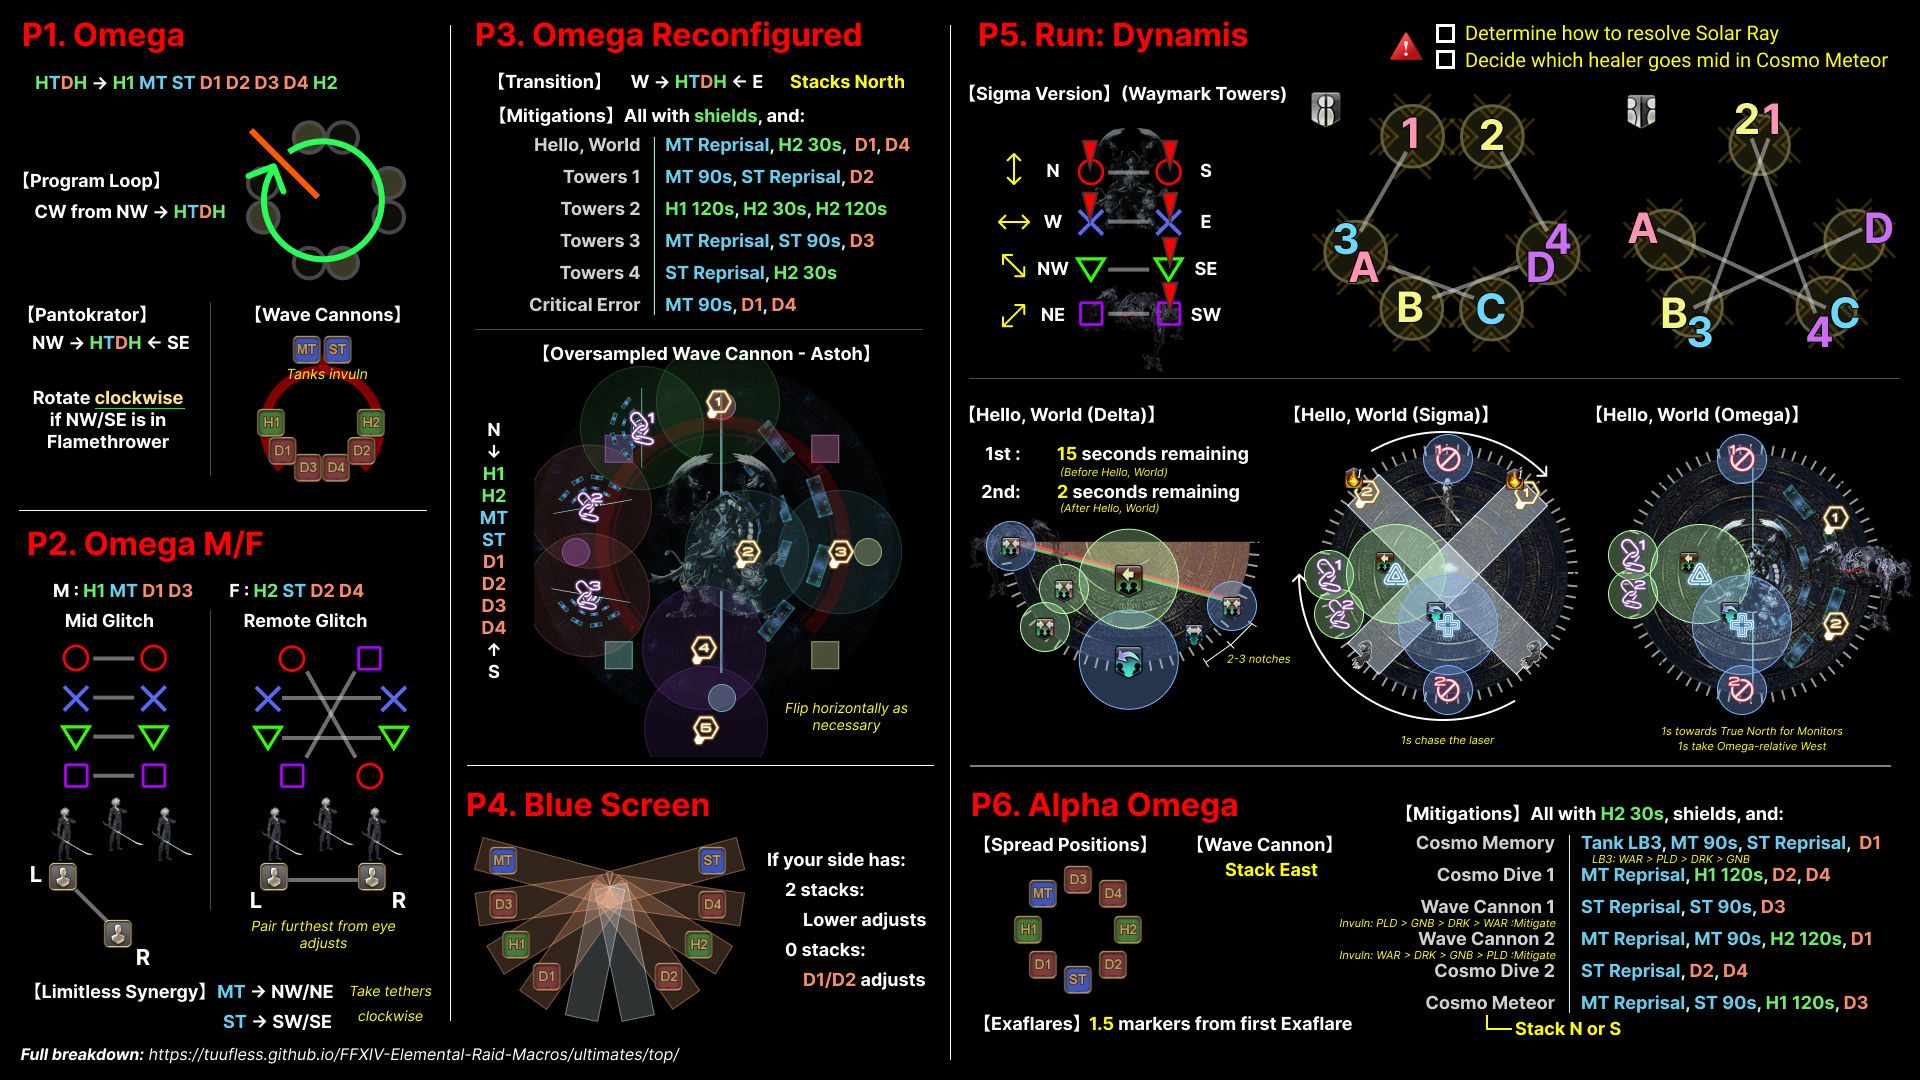
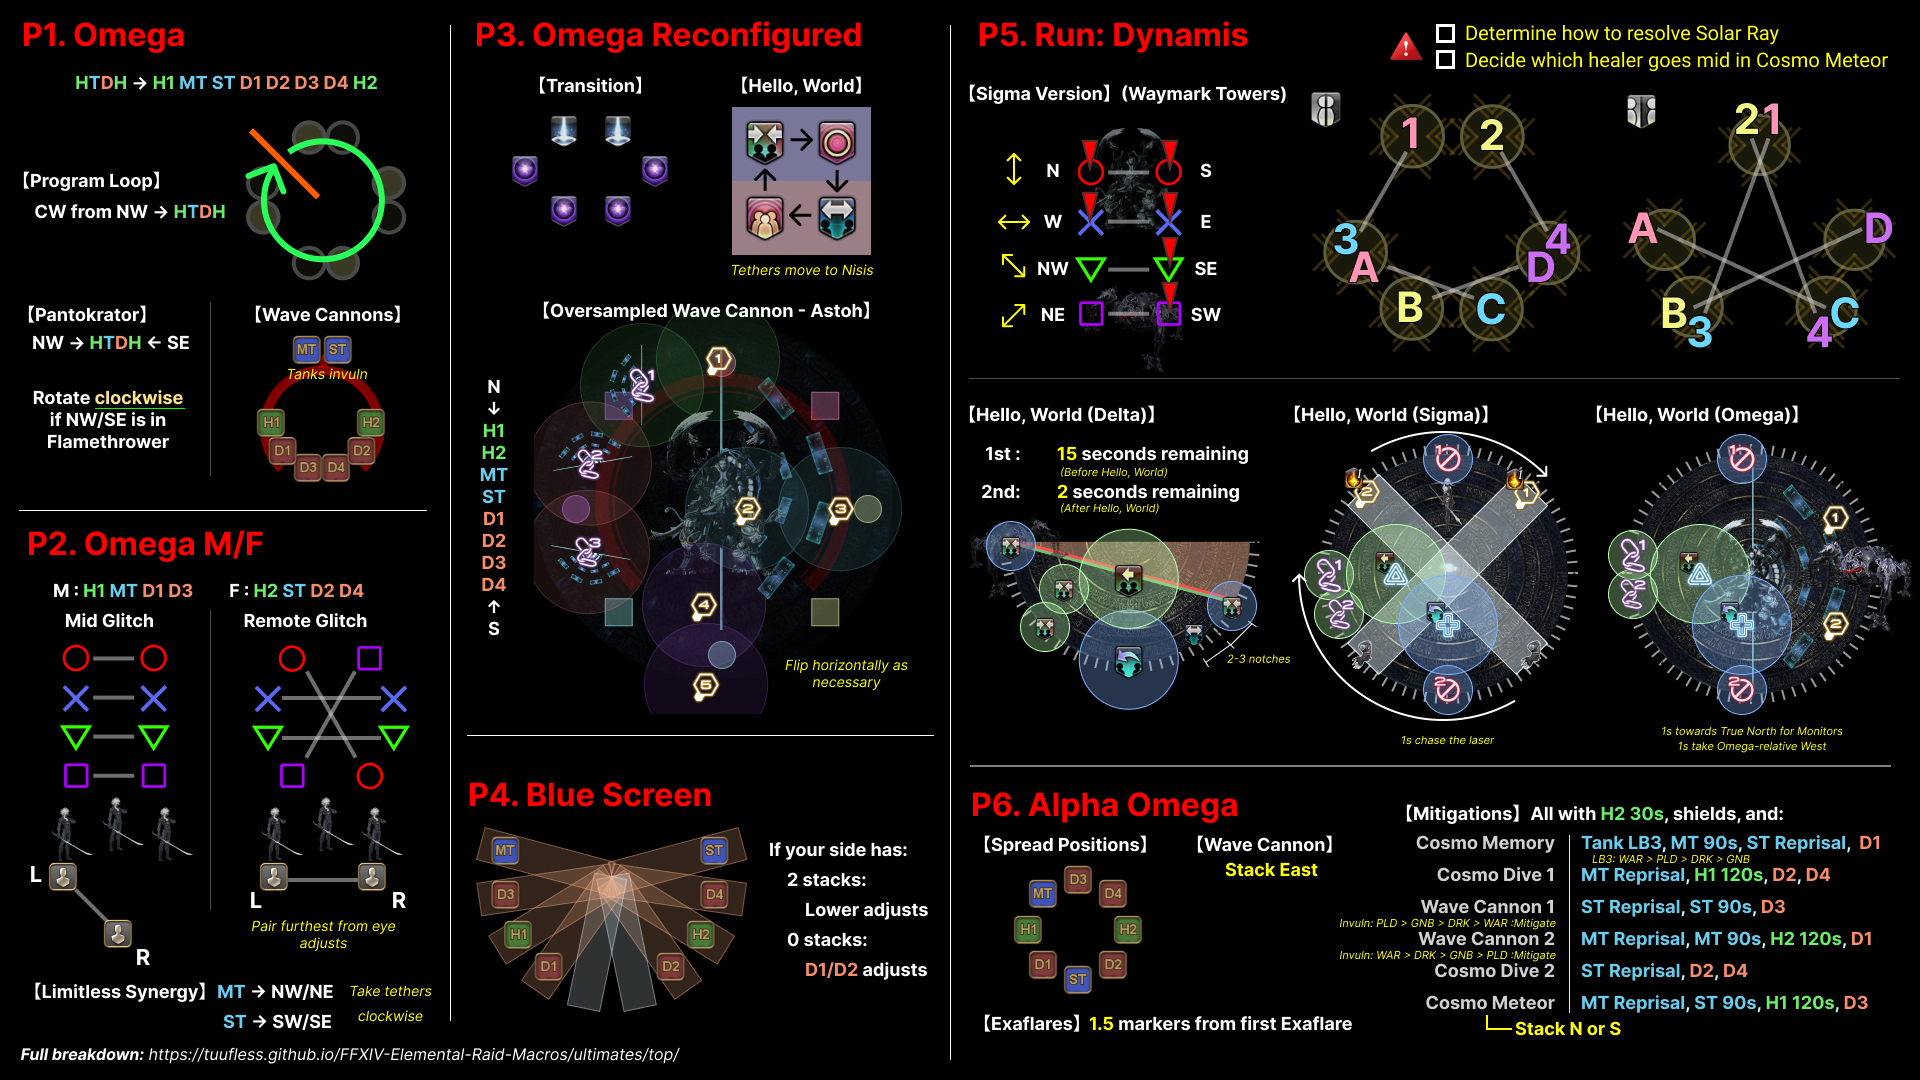
Remove Hello, World mitplan

Changed region(s): [[0.25, 0.0611, 0.5, 0.9472], [0.0312, 0.0611, 0.1875, 0.0917]]

diff --git a/ultimates/top/en/03_omega_reconfigured.md b/ultimates/top/en/03_omega_reconfigured.md
@@ -17,16 +17,7 @@ This is the only phase in the fight with a transitional mechanic.
 <table>
   <tr>
     <td>
-      <p><b>1.</b> Line up west-to-east:</p>
-      <ul>
-        <li><b>West:</b> H1 MT ST D1 D2 D3 D4 H2<b>:East</b></li>
-      </ul>
-    </td>
-    <td><img src="../images/03_omega_reconfigured/transition_01.jpg"></td>
-  </tr>
-  <tr>
-    <td>
-      <p><b>2.</b> Identify and split up:</p>
+      <p><b>1.</b> Debuffs appear.</p>
       <ul>
         <li><b>High-powered Sniper Cannon Fodders:</b> Pair up with a player
         with no debuffs north.</li>
@@ -38,38 +29,38 @@ This is the only phase in the fight with a transitional mechanic.
   </tr>
   <tr>
     <td>
-      <p><b>3.</b> First pulse of the expanding Wave Repeater AoE goes off.</p>
+      <p><b>2.</b> First pulse of the expanding Wave Repeater AoE goes off.</p>
       <p>Three arms will appear around the arena, 120 degrees from one another.</p>
       <p><b>Note where these first set of arms are.</b></p>
     </td>
     <td><img src="../images/03_omega_reconfigured/transition_03.jpg"></td>
   </tr>
   <tr>
-    <td><p><b>4.</b> Second pulse goes off.</p><p>The second set of arms will
+    <td><p><b>3.</b> Second pulse goes off.</p><p>The second set of arms will
     appear around the arena.</p></td>
     <td><img src="../images/03_omega_reconfigured/transition_04.jpg"></td>
   </tr>
   <tr>
-    <td><p><b>5.</b> Third pulse goes off.</p></td>
+    <td><p><b>4.</b> Third pulse goes off.</p></td>
     <td><img src="../images/03_omega_reconfigured/transition_05.jpg"></td>
   </tr>
   <tr>
-    <td><p><b>6.</b> Fourth pulse goes off.</p><p>At this point, all players
+    <td><p><b>5.</b> Fourth pulse goes off.</p><p>At this point, all players
     should be in position for the second wave of mechanics.</p></td>
     <td><img src="../images/03_omega_reconfigured/transition_06.jpg"></td>
   </tr>
   <tr>
-    <td><p><b>7.</b> First pulse of the second wave goes off.</p></td>
+    <td><p><b>6.</b> First pulse of the second wave goes off.</p></td>
     <td><img src="../images/03_omega_reconfigured/transition_07.jpg"></td>
   </tr>
   <tr>
-    <td><p><b>8.</b> Second pulse of the second wave goes off.</p><p>The first
+    <td><p><b>7.</b> Second pulse of the second wave goes off.</p><p>The first
     set of arms will telegraph an AoE around them.</p></td>
     <td><img src="../images/03_omega_reconfigured/transition_08.jpg"></td>
   </tr>
   <tr>
     <td>
-      <p><b>9.</b> Third pulse of the second wave goes off.</p>
+      <p><b>8.</b> Third pulse of the second wave goes off.</p>
       <p>The first set of arms explode, while the second set of arms telegraph
       their explosion.</p>
       <p><b>Move into the intersection of the expanding pulse and the first set
@@ -78,49 +69,9 @@ This is the only phase in the fight with a transitional mechanic.
     <td><img src="../images/03_omega_reconfigured/transition_09.jpg"></td>
   </tr>
   <tr>
-    <td><p><b>10.</b> Player debuffs resolve along with the second set of arm's
+    <td><p><b>9.</b> Player debuffs resolve along with the second set of arm's
     AoE.</p></td>
     <td><img src="../images/03_omega_reconfigured/transition_10.jpg"></td>
-  </tr>
-</table>
-
----
-
-## Mitigations
-
-This phase requires some mitigation planning. Each round of Hello, World
-requires at least three mitigations for the party to survive all damage
-*without* healing in between.
-
-One such mitigation plan is:
-
-<table>
-  <tr>
-    <td colspan="2">All with H2 shields, and:</td>
-  </tr>
-  <tr>
-    <td><b>Hello, World</b></td>
-    <td><p>MT Reprisal, H2 30s, D1, D4</p></td>
-  </tr>
-  <tr>
-    <td><b>Towers #1</b></td>
-    <td>MT 90s, ST Reprisal, D2</td>
-  </tr>
-  <tr>
-    <td><b>Towers #2</b></td>
-    <td><p>H1 120s, H2 30s, H2 120s</p></td>
-  </tr>
-  <tr>
-    <td><b>Towers #3</b></td>
-    <td><p>MT Reprisal, ST 90s, D3</p></td>
-  </tr>
-  <tr>
-    <td><b>Towers #4</b></td>
-    <td><p>ST Reprisal, H2 30s</p></td>
-  </tr>
-  <tr>
-    <td><b>Critical Error</b></td>
-    <td>MT 90s, D1, D4</td>
   </tr>
 </table>
 
@@ -489,13 +440,11 @@ onwards.
   through the ST's mitigations.</p>
 </div>
 <div style="background-color: #002 ; padding: 10px; border: 1px solid;">
-<p>
-  <b>Tip:</b> The party will be taking raid-wide damage from Critical Overflow,
-  Critical Synchronization, and the two tethers. Three mitigations (including
-  shields) are needed for non-tanks to survive all the damage without any
-  additional healing.</p>
-  <p>Boss debuffs (Reprisal, Dismantle, Feint, Addle) are particularly handy
-  because having all players in range can be tricky.</p>
+  <p><b>Tip:</b> The party will be taking raid-wide damage from <em>Critical
+  Overflow</em>, <em>Critical Synchronization</em>, and the two tethers when
+  they resolve.</p>
+  <p><b>Three pieces of mitigation</b> (including shields) are needed for
+  non-tanks to survive all the damage without any additional healing.</p>
 </div>
 
 <table>
